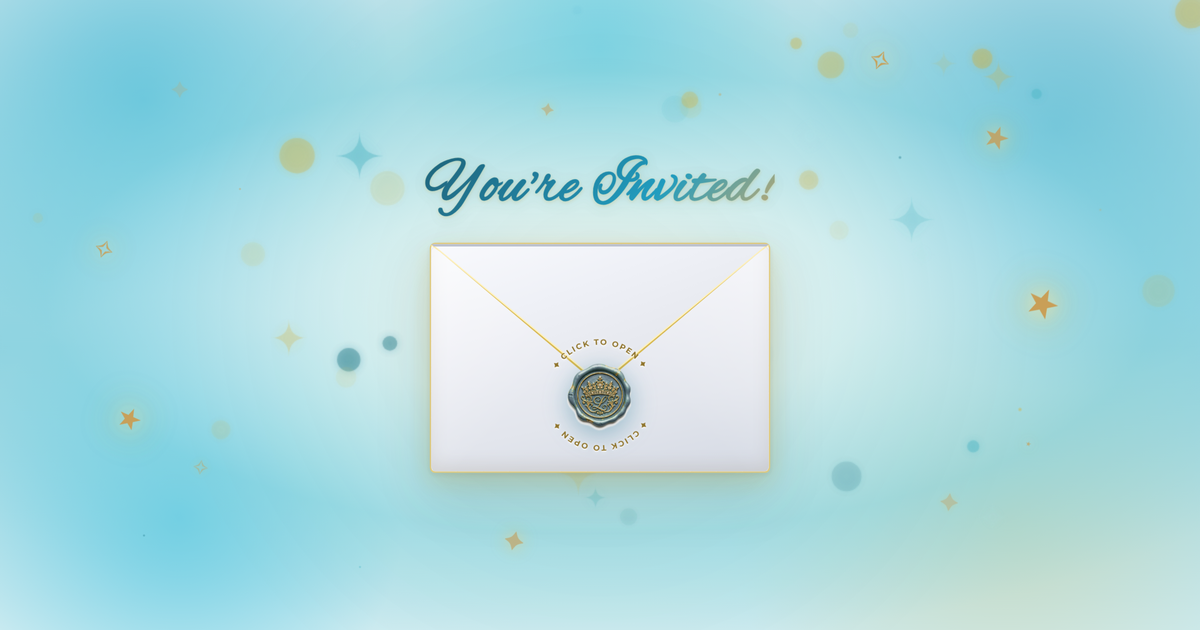
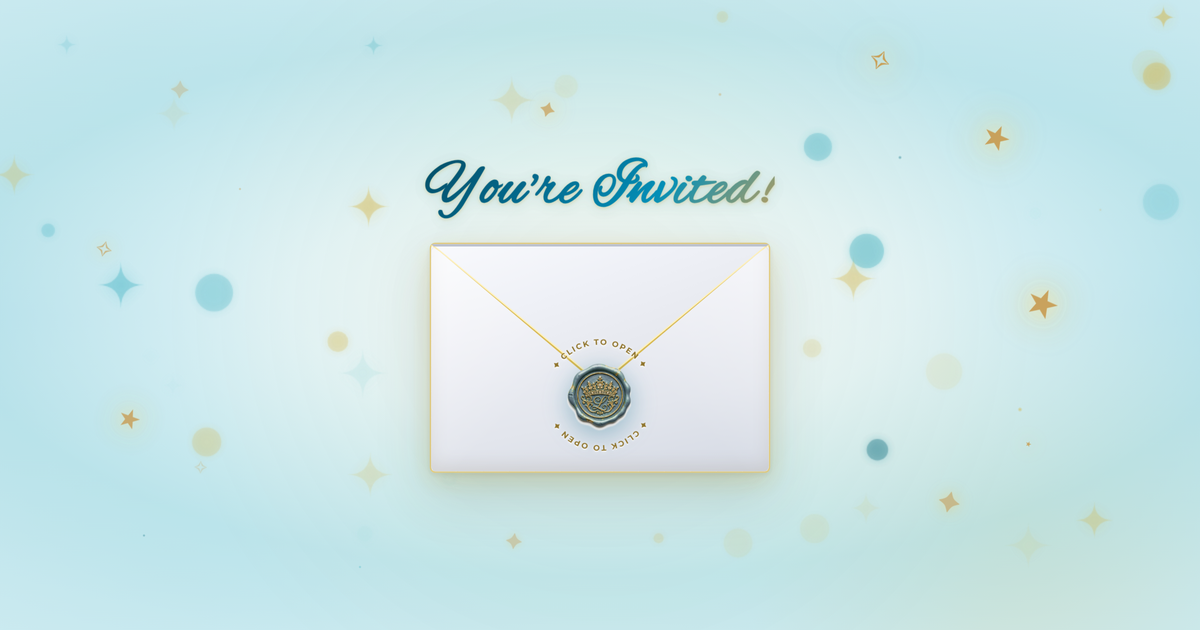
fix(alexadeharo): harmonize landing page top and bottom background to match soft middle light blue

diff --git a/alexadeharo/style.css b/alexadeharo/style.css
@@ -2923,18 +2923,18 @@ body.site-entered .site-footer p {
   align-items: center !important;
   justify-content: center !important;
   overflow: hidden !important;
-  background-color: #bfe3eb !important;
+  background-color: #cbeaf0 !important;
   background-image:
     /* Luminous pure white & champagne glow halo centered directly behind the envelope so it pops */
-    radial-gradient(ellipse 68% 54% at 50% 48%, rgba(255, 255, 255, 0.85) 0%, rgba(224, 246, 250, 0.78) 32%, rgba(140, 215, 228, 0.52) 68%, transparent 100%),
-    /* Shimmering royal gold and vivid light blue / cyan ambient bokeh orbs */
-    radial-gradient(circle 360px at 12% 16%, rgba(0, 160, 200, 0.45) 0%, transparent 70%),
-    radial-gradient(circle 380px at 88% 20%, rgba(0, 142, 183, 0.40) 0%, transparent 70%),
-    radial-gradient(circle 320px at 15% 82%, rgba(0, 175, 215, 0.42) 0%, transparent 70%),
-    radial-gradient(circle 400px at 84% 82%, rgba(212, 175, 55, 0.22) 0%, transparent 70%),
-    radial-gradient(circle 280px at 50% 8%, rgba(0, 185, 225, 0.40) 0%, transparent 70%),
-    /* Luminous cascading silk light blue & cyan gradient */
-    linear-gradient(180deg, #bfe3eb 0%, #a8dbe6 25%, #92d1de 55%, #b2e0e9 80%, #ccebf1 100%) !important;
+    radial-gradient(ellipse 72% 58% at 50% 48%, rgba(255, 255, 255, 0.88) 0%, rgba(235, 248, 250, 0.82) 35%, rgba(182, 226, 233, 0.45) 75%, transparent 100%),
+    /* Soft ambient bokeh orbs matching the middle light blue tone */
+    radial-gradient(circle 360px at 12% 16%, rgba(182, 226, 233, 0.35) 0%, transparent 70%),
+    radial-gradient(circle 380px at 88% 20%, rgba(182, 226, 233, 0.35) 0%, transparent 70%),
+    radial-gradient(circle 320px at 15% 82%, rgba(182, 226, 233, 0.35) 0%, transparent 70%),
+    radial-gradient(circle 400px at 84% 82%, rgba(212, 175, 55, 0.16) 0%, transparent 70%),
+    radial-gradient(circle 280px at 50% 8%, rgba(195, 233, 239, 0.30) 0%, transparent 70%),
+    /* Seamless uniform soft light blue silk wash matching the middle */
+    linear-gradient(180deg, #cbeaf0 0%, #bde4eb 30%, #b2deea 50%, #bde4eb 70%, #cbeaf0 100%) !important;
   transition: opacity 0.85s cubic-bezier(0.2, 0.9, 0.3, 1), transform 0.85s cubic-bezier(0.2, 0.9, 0.3, 1), visibility 0.85s !important;
 }
 

diff --git a/alexadeharo/index.html b/alexadeharo/index.html
@@ -44,7 +44,7 @@
     href="https://fonts.googleapis.com/css2?family=Alex+Brush&family=Cormorant+Garamond:ital,wght@0,400;0,500;0,600;0,700;1,400&family=Montserrat:wght@300;400;500;600;700&family=Playfair+Display:ital,wght@0,400;0,600;0,700;1,400&display=swap"
     rel="stylesheet">
 
-  <link rel="stylesheet" href="style.css?v=9.10.0" />
+  <link rel="stylesheet" href="style.css?v=9.11.0" />
 </head>
 
 <body>
